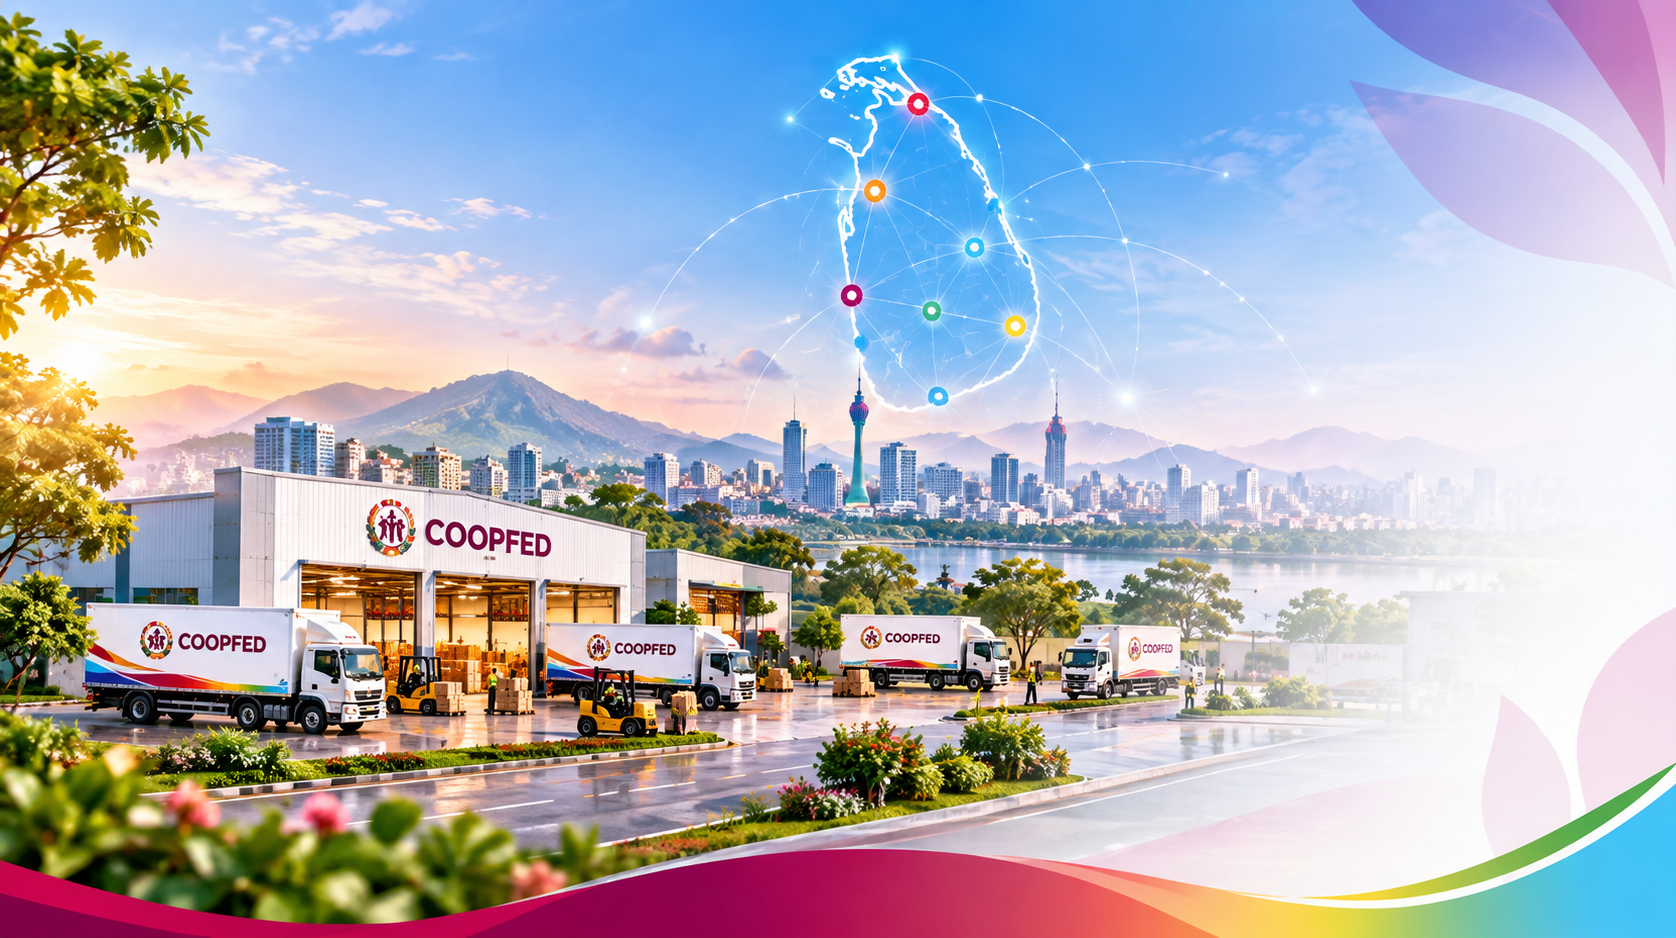
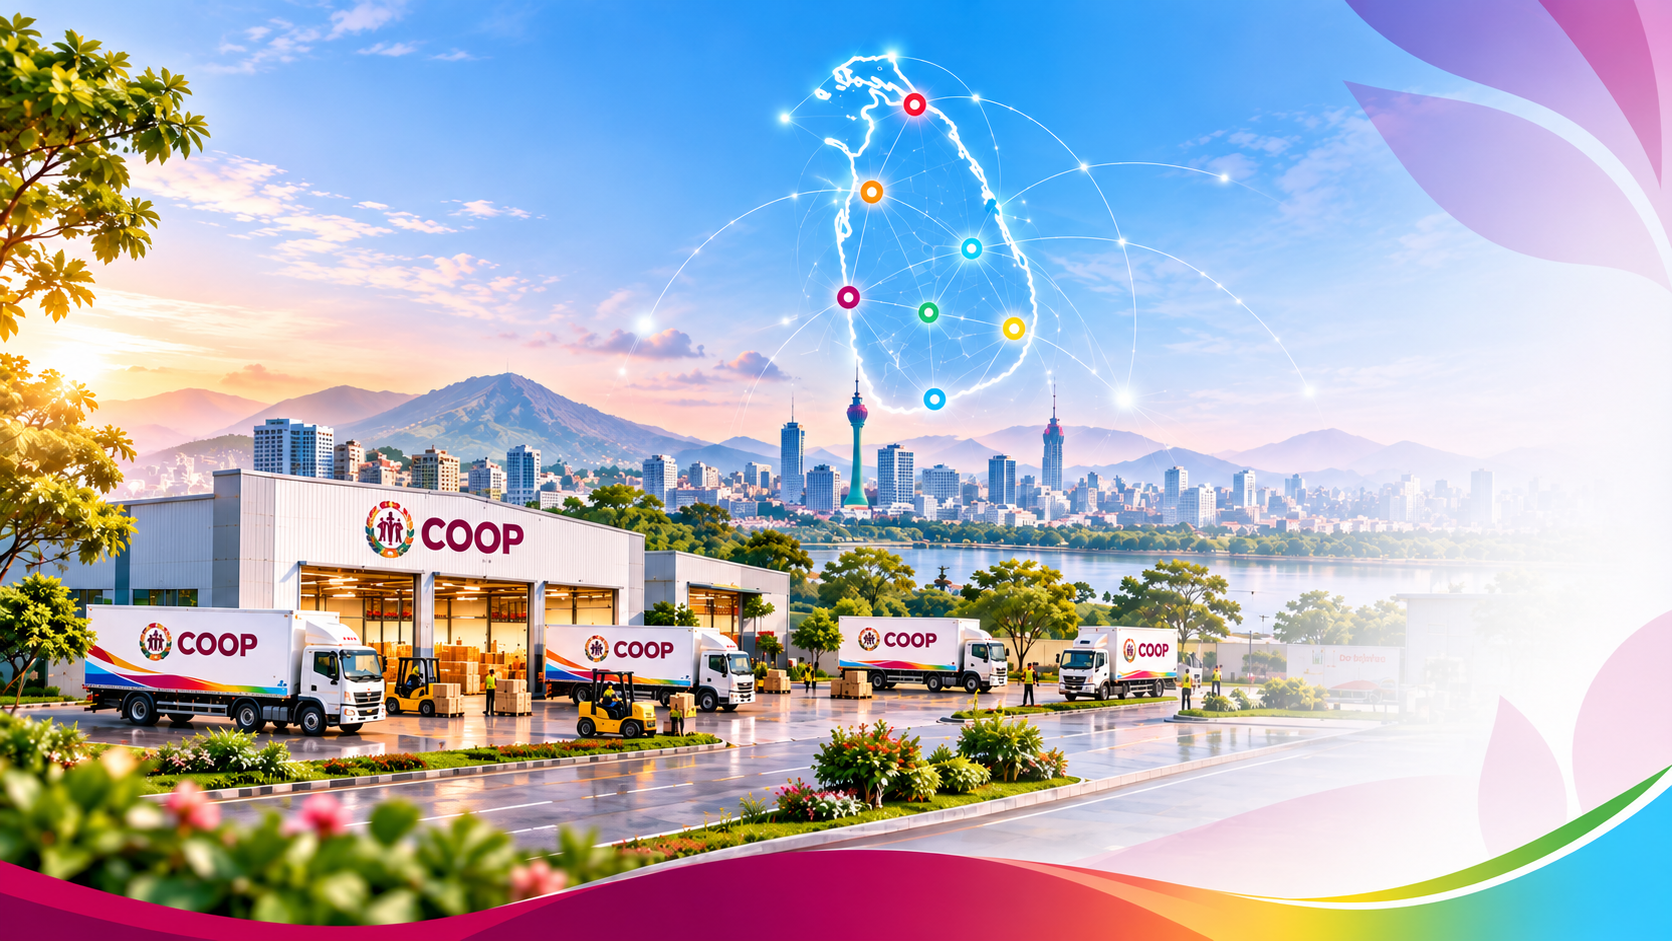
feat(theme): refine branding to Co-op ERP, enlarge brand marks, and remove federation references

diff --git a/web/src/shell/i18n/messages.ts b/web/src/shell/i18n/messages.ts
@@ -57,7 +57,7 @@ export const SHELL_MESSAGES: Catalogue = {
     "shell.home.welcome": "Welcome to {entity}",
     "shell.home.welcome_user": "Welcome to {entity}, {user}",
     "shell.home.default_entity": "Co-op Back Office",
-    "shell.home.welcome_sub": "National Cooperative Federation of Sri Lanka — Unified Enterprise Platform",
+    "shell.home.welcome_sub": "National Cooperative of Sri Lanka — Unified Enterprise Platform",
     "shell.home.quick_access": "Quick Access Modules",
     "shell.home.quick_access_sub": "Select an authorized workspace to manage cooperative retail, distribution and operations.",
     "shell.home.open_module": "Open Module",
@@ -150,7 +150,7 @@ export const SHELL_MESSAGES: Catalogue = {
     "shell.home.welcome": "{entity} වෙත සාදරයෙන් පිළිගනිමු",
     "shell.home.welcome_user": "{entity} වෙත සාදරයෙන් පිළිගනිමු, {user}",
     "shell.home.default_entity": "සමුපකාර පසුබිම් කාර්යාලය",
-    "shell.home.welcome_sub": "ශ්රී ලංකා ජාතික සමුපකාර මහා මණ්ඩලය — ඒකාබද්ධ මෙහෙයුම් කළමනාකරණය",
+    "shell.home.welcome_sub": "ශ්රී ලංකා ජාතික සමුපකාරය — ඒකාබද්ධ මෙහෙයුම් කළමනාකරණය",
     "shell.home.quick_access": "ක්ෂණික පිවිසුම් මොඩියුල",
     "shell.home.quick_access_sub": "සිල්ලර වෙළඳාම, බෙදාහැරීම් සහ මෙහෙයුම් කළමනාකරණය සඳහා බලයලත් මොඩියුලයක් තෝරන්න.",
     "shell.home.open_module": "විවෘත කරන්න",
@@ -243,7 +243,7 @@ export const SHELL_MESSAGES: Catalogue = {
     "shell.home.welcome": "{entity}க்கு வரவேற்கிறோம்",
     "shell.home.welcome_user": "{entity}க்கு வரவேற்கிறோம், {user}",
     "shell.home.default_entity": "கூட்டுறவு பின் அலுவலகம்",
-    "shell.home.welcome_sub": "இலங்கை தேசிய கூட்டுறவு சம்மேளனம் — ஒருங்கிணைந்த நிறுவன மேலாண்மை",
+    "shell.home.welcome_sub": "இலங்கை தேசிய கூட்டுறவு — ஒருங்கிணைந்த நிறுவன மேலாண்மை",
     "shell.home.quick_access": "விரைவு அணுகல் தொகுதிகள்",
     "shell.home.quick_access_sub": "சில்லறை விற்பனை, விநியோகம் மற்றும் செயல்பாடுகளை நிர்வகிக்க ஒரு தொகுதியைத் தேர்ந்தெடுக்கவும்.",
     "shell.home.open_module": "திறக்கவும்",

diff --git a/web/index.html b/web/index.html
@@ -1,1 +1,19 @@
-<!DOCTYPE html><html lang="en"><head><meta charset="UTF-8" /><meta name="viewport" content="width=device-width, initial-scale=1.0" /><link rel="icon" type="image/png" href="/favicon.png" /><link rel="shortcut icon" href="/favicon.ico" /><link rel="apple-touch-icon" href="/apple-touch-icon.png" /><title>COOP ERP</title></head><body><div id="root"></div><!-- the server's addresses, before the application (src/shell/runtimeConfig.ts) --><script src="/config.js"></script><script type="module" src="/src/main.tsx"></script></body></html>
+<!DOCTYPE html>
+<html lang="en">
+
+<head>
+    <meta charset="UTF-8" />
+    <meta name="viewport" content="width=device-width, initial-scale=1.0" />
+    <link rel="icon" type="image/png" href="/favicon.png" />
+    <link rel="shortcut icon" href="/favicon.ico" />
+    <link rel="apple-touch-icon" href="/apple-touch-icon.png" />
+    <title>Co-op ERP</title>
+</head>
+
+<body>
+    <div id="root"></div><!-- the server's addresses, before the application (src/shell/runtimeConfig.ts) -->
+    <script src="/config.js"></script>
+    <script type="module" src="/src/main.tsx"></script>
+</body>
+
+</html>

diff --git a/web/src/shell/shell.css b/web/src/shell/shell.css
@@ -810,15 +810,15 @@ textarea {
 .shell-sidebar-brand .brand-text {
   display: inline-flex;
   align-items: center;
-  gap: 8px;
+  gap: 9px;
   min-width: 0;
   user-select: none;
 }
 
 .shell-sidebar-brand .brand-name {
-  font-size: 21px;
+  font-size: 28px;
   font-weight: 800;
-  letter-spacing: 0.6px;
+  letter-spacing: 0.4px;
   color: var(--color-surface);
   line-height: 1.1;
   text-shadow: 0 1px 3px var(--color-sidebar-brand-text-shadow);
@@ -828,10 +828,10 @@ textarea {
   display: inline-flex;
   align-items: center;
   justify-content: center;
-  font-size: 11px;
+  font-size: 13px;
   font-weight: 800;
   letter-spacing: 0.8px;
-  padding: 2.5px 7px;
+  padding: 3px 8.5px;
   border-radius: 6px;
   background: linear-gradient(135deg, var(--color-sidebar-brand-badge-bg-start) 0%, var(--color-sidebar-brand-badge-bg-end) 100%);
   border: 1px solid var(--color-sidebar-brand-badge-border);

diff --git a/infra/keycloak/theme/coop/login/resources/css/styles.css b/infra/keycloak/theme/coop/login/resources/css/styles.css
@@ -495,7 +495,7 @@ summary.language-selector::-webkit-details-marker {
 
 .brand h1 {
   margin: 0 0 4px;
-  font-size: 26px;
+  font-size: 34px;
   font-weight: 800;
   letter-spacing: -0.5px;
   line-height: 1.2;
@@ -830,7 +830,7 @@ summary.language-selector::-webkit-details-marker {
   }
 
   .brand h1 {
-    font-size: 22px;
+    font-size: 26px;
   }
 
   .coopfed-logo {
